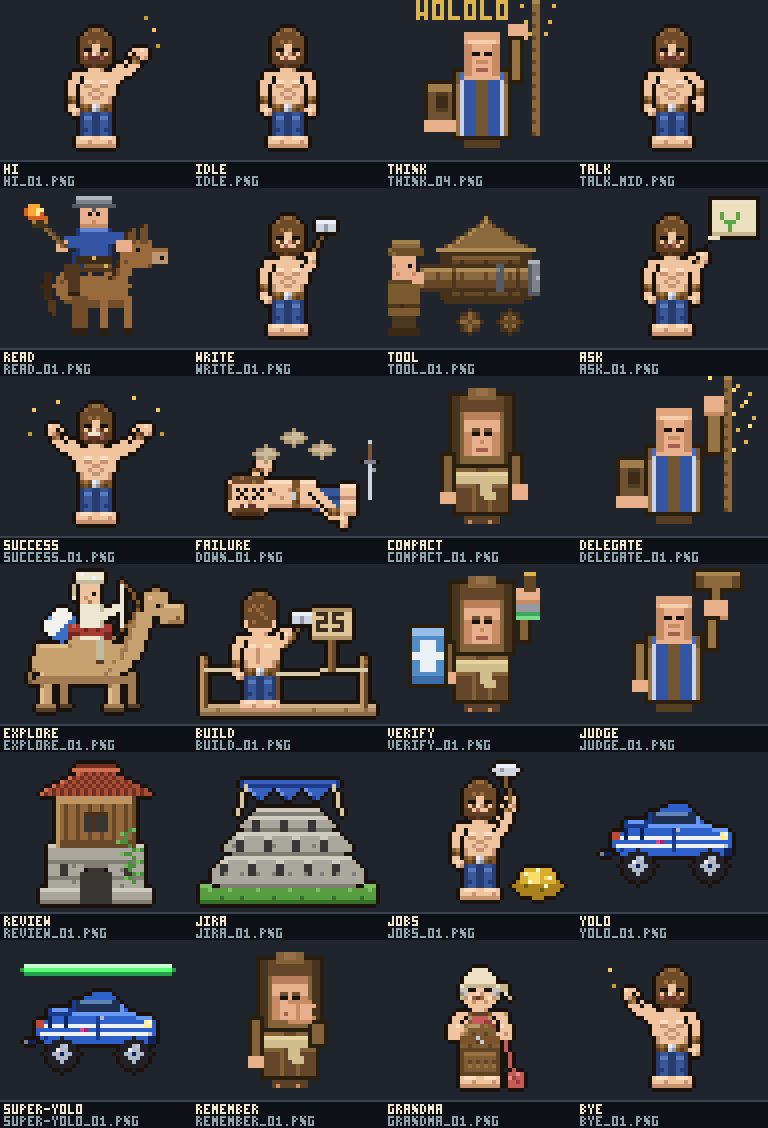
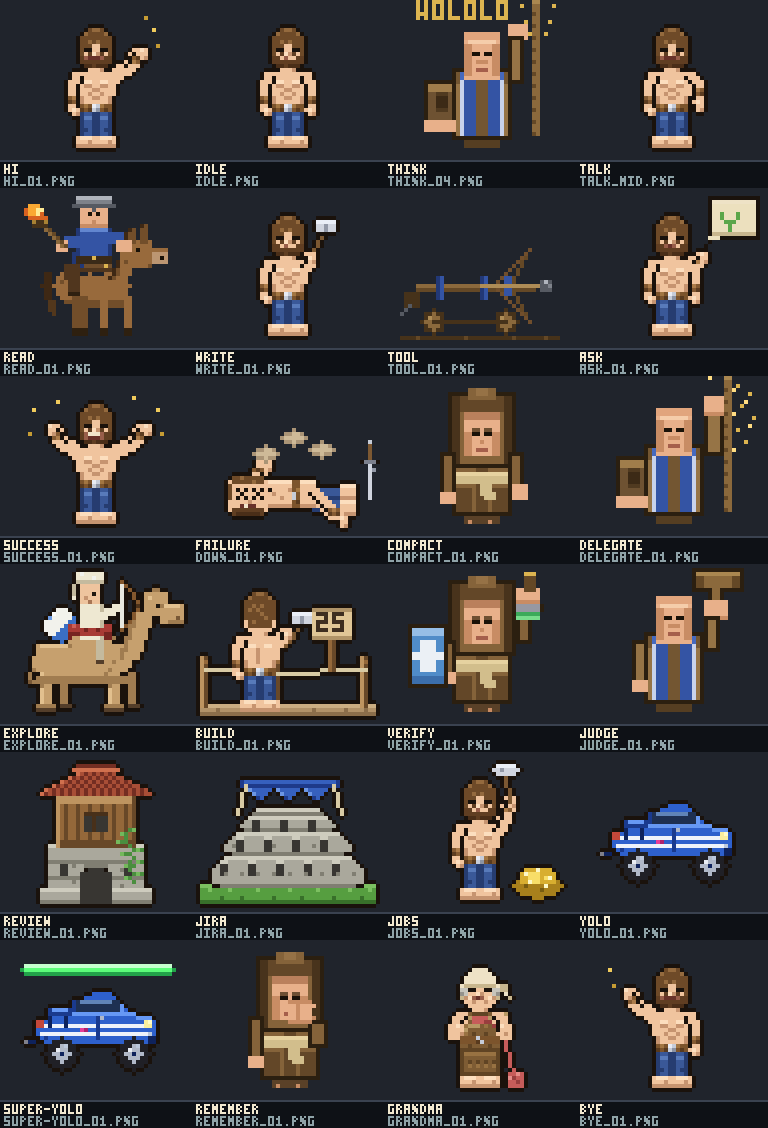
feat(emotes): tool ballesta+catapulta en loop tensar-disparar-cargar-soltar

Changed region(s): [[0.5, 0.1862, 0.7188, 0.3103]]

diff --git a/scripts/sprites/gen_unidades.py b/scripts/sprites/gen_unidades.py
@@ -6,7 +6,7 @@ Cinco estados, todos loop de poses chicas:
   read/     scout a caballo con antorcha ......... 2 poses (antorcha izq / der)
   explore/  caballeria con farol ................. 2 poses (paso 1 / paso 2)
   build/    herrero soldando el ariete ........... 2 poses (chispa / sin chispa)
-  tool/     ariete de asalto empujado ............ 3 poses (atras / medio / adelante)
+  tool/     bateria de asedio ................... 4 poses (tensa/dispara/carga/suelta)
   jira/     castillo con cohete de madera ....... 2 poses (despegando / en el aire)
 
 Solo stdlib: struct + zlib (PNG 48x40 RGBA escrito a mano, sin PIL, sin red).
@@ -455,115 +455,110 @@ def scene_build(pose):
 
 
 # ------------------------------------------------------------------ 4. tool
-def tool_wheel(buf, cx, cy, phase):
-    """Rueda de 7 px con cuatro rayos que giran con la fase."""
-    disc(buf, cx, cy, 3, woodDD)
-    disc(buf, cx, cy, 2, wood)
+def tool_wheel(buf, cx, cy, r=3):
+    """Rueda maciza de madera con buje de hierro."""
+    disc(buf, cx, cy, r, woodDD)
+    disc(buf, cx, cy, r - 1, wood)
     setpx(buf, cx, cy, ironD)
-    spokes = {
-        0: ((2, 1), (-2, -1), (1, -2), (-1, 2)),
-        1: ((2, 0), (-2, 0), (0, 2), (0, -2)),
-        2: ((1, 2), (-1, -2), (-2, 1), (2, -1)),
-    }[phase]
-    for (dx, dy) in spokes:
-        line(buf, cx, cy, cx + dx, cy + dy, woodD)
+    setpx(buf, cx - 1, cy - 1, woodL)
 
 
-def tool_villager(buf, phase):
-    """Aldeano empujando el tronco del ariete desde atras."""
-    step = 1 if phase % 2 else 0
-    # botas y piernas
-    rect(buf, 1, 35, 4, 36, (60, 40, 20))
-    rect(buf, 5, 35, 8, 36, (60, 40, 20))
-    rect(buf, 2 - step, 32, 4 - step, 34, (74, 56, 32))
-    rect(buf, 5 + step, 32, 7 + step, 34, (74, 56, 32))
-    # tunica
-    rect(buf, 1, 23, 8, 31, (122, 90, 46))
-    hline(buf, 1, 8, 23, (94, 68, 32))
-    hline(buf, 1, 8, 29, (80, 55, 25))
-    setpx(buf, 4, 29, (60, 40, 20))
-    # cabeza y sombrero de paja
-    rect(buf, 2, 17, 7, 22, skin)
-    setpx(buf, 2, 19, skinD)
-    setpx(buf, 6, 19, ink)
-    setpx(buf, 3, 21, skinD)
-    rect(buf, 2, 13, 8, 14, (138, 106, 59))     # copa del sombrero
-    hline(buf, 2, 8, 13, (162, 128, 74))
-    rect(buf, 1, 15, 9, 16, (107, 79, 38))      # ala
-    setpx(buf, 2, 16, (138, 106, 59))
-    setpx(buf, 1, 15, (138, 106, 59))
+def tool_ground(buf):
+    hline(buf, 4, 43, 37, woodDD)
+    for x in (8, 20, 32, 40):
+        setpx(buf, x, 37, woodD)
+
+
+def tool_ballista(buf, fired):
+    """Ballesta mirando a la derecha: tensada o disparada (retroceso)."""
+    dx = -1 if fired else 0
+    tool_wheel(buf, 12 + dx, 33)
+    tool_wheel(buf, 30 + dx, 33)
+    hline(buf, 12 + dx, 30 + dx, 33, woodDD)
+    # viga central
+    rect(buf, 8 + dx, 24, 37 + dx, 25, wood)
+    hline(buf, 8 + dx, 37 + dx, 25, woodD)
+    # arco frontal en V
+    line(buf, 36 + dx, 15, 31 + dx, 24, woodD)
+    line(buf, 36 + dx, 33, 31 + dx, 24, woodD)
+    # fajas azules de amarre
+    for bx in (13, 24):
+        rect(buf, bx + dx, 22, bx + 1 + dx, 27, blue)
+        vline(buf, bx + dx, 22, 27, blueD)
+    rect(buf, 30 + dx, 22, 31 + dx, 26, blue)
+    # torno trasero
+    rect(buf, 5 + dx, 26, 8 + dx, 29, woodDD)
+    line(buf, 6 + dx, 29, 4 + dx, 31, ironD)
+    if not fired:
+        # cuerda tensa en V y virote cargado
+        line(buf, 36 + dx, 15, 27 + dx, 24, leather)
+        line(buf, 27 + dx, 24, 36 + dx, 33, leather)
+        hline(buf, 24 + dx, 39 + dx, 24, woodL)
+        rect(buf, 39 + dx, 23, 41 + dx, 25, ironD)
+        setpx(buf, 41 + dx, 24, iron)
+        setpx(buf, 40 + dx, 23, ironL)
+        setpx(buf, 25 + dx, 23, blue)
+        setpx(buf, 25 + dx, 25, blue)
+    else:
+        # cuerda suelta + virote en vuelo
+        vline(buf, 31 + dx, 15, 33, leather)
+        hline(buf, 36, 45, 24, woodL)
+        rect(buf, 43, 23, 45, 25, ironD)
+        setpx(buf, 45, 24, iron)
+        setpx(buf, 44, 23, ironL)
+        for (x, y) in ((33, 22), (31, 24), (34, 26)):
+            setpx(buf, x, y, smokeL)
+
+
+def tool_catapult(buf, loaded):
+    """Catapulta: cargada (brazo atrás, piedra en cuchara) o suelta (piedra en el aire)."""
+    tool_wheel(buf, 10, 32, r=4)
+    tool_wheel(buf, 30, 32, r=4)
+    hline(buf, 10, 30, 32, woodDD)
+    # bastidor
+    rect(buf, 6, 29, 36, 31, woodD)
+    hline(buf, 6, 36, 29, woodL)
+    # paño azul al costado
+    rect(buf, 28, 23, 35, 28, blue)
+    vline(buf, 28, 23, 28, blueD)
+    vline(buf, 35, 23, 28, blueD)
+    hline(buf, 28, 35, 23, blueL)
+    setpx(buf, 31, 26, blueD)
+    # montaje del pivote
+    px, py = 20, 22
+    rect(buf, px - 2, py - 2, px + 2, py + 2, woodDD)
+    setpx(buf, px, py, ironD)
+    if loaded:
+        ex, ey = 9, 30
+        line(buf, px, py, ex, ey, wood)
+        line(buf, px, py + 1, ex, ey + 1, woodD)
+        line(buf, ex - 2, ey, ex + 2, ey, woodDD)
+        disc(buf, ex, ey - 2, 2, stone)
+        setpx(buf, ex - 1, ey - 3, stoneL)
+    else:
+        ex, ey = 31, 9
+        line(buf, px, py, ex, ey, wood)
+        line(buf, px + 1, py, ex + 1, ey, woodD)
+        line(buf, ex - 1, ey + 2, ex + 2, ey, woodDD)
+        disc(buf, 38, 5, 2, stone)
+        setpx(buf, 37, 4, stoneL)
+        for (x, y) in ((34, 8), (32, 10), (35, 11)):
+            setpx(buf, x, y, smokeL)
 
 
 def scene_tool(pose):
-    """Ariete de asalto empujado: pose 1 atras, 2 medio, 3 adelante."""
+    """Batería de asedio en loop: 1 ballesta tensa, 2 ballesta dispara,
+    3 catapulta cargada, 4 catapulta suelta."""
     buf = canvas()
-    push = (0, 2, 4)[pose - 1]
-
-    # ---- ruedas y eje ----
-    tool_wheel(buf, 21, 33, (0, 1, 2)[pose - 1])
-    tool_wheel(buf, 31, 33, (1, 2, 0)[pose - 1])
-    rect(buf, 15, 28, 34, 28, woodDD)
-
-    # ---- caja del ariete ----
-    rect(buf, 14, 16, 36, 27, woodDD)
-    rect(buf, 15, 17, 35, 26, woodD)
-    for x in (19, 25, 31):
-        vline(buf, x, 17, 26, woodDD)
-    hline(buf, 15, 35, 17, (124, 92, 52))
-    # techo a dos aguas
-    for i in range(8):
-        y = 8 + i
-        half = 1 + (i * 11) // 7
-        rect(buf, 25 - half, y, 25 + half, y, wood)
-        setpx(buf, 25 - half, y, woodD)
-        setpx(buf, 25 - half + 1, y, woodL)
-        setpx(buf, 25 + half, y, woodD)
-    hline(buf, 13, 37, 15, woodL)
-    rect(buf, 15, 16, 16, 27, woodDD)          # poste trasero
-    rect(buf, 34, 16, 35, 27, woodDD)          # poste delantero
-    setpx(buf, 25, 7, goldD)
-
-    # ---- tronco del ariete (lo mas claro del cuadro) ----
-    tip = 37 + push
-    rect(buf, 9, 19, tip, 25, woodDD)
-    rect(buf, 9, 20, tip, 24, wood)
-    hline(buf, 10, tip, 20, woodL)
-    hline(buf, 10, tip, 23, woodD)
-    hline(buf, 10, tip, 24, woodD)
-    for x in (13, 19, 25, 31):
-        if x < tip:
-            vline(buf, x, 21, 22, woodD)
-    # fleje de hierro en la mitad del tronco
-    rect(buf, 28, 19, 29, 25, ironD)
-    setpx(buf, 28, 20, iron)
-    # cuerdas que lo atan a la caja
-    for x in (17, 33):
-        vline(buf, x, 19, 25, leatherD)
-        setpx(buf, x, 20, leather)
-    setpx(buf, 9, 21, leatherD)
-    setpx(buf, 9, 23, leatherD)
-    # punta de hierro
-    rect(buf, tip - 1, 18, tip + 1, 26, ironD)
-    rect(buf, tip, 19, tip + 1, 25, iron)
-    hline(buf, tip - 1, tip + 1, 18, ironL)
-    setpx(buf, tip - 1, 19, ironD)
-    setpx(buf, tip - 1, 25, ironD)
-    setpx(buf, tip + 1, 22, ironL)
-
-    # ---- aldeano empujando ----
-    tool_villager(buf, pose - 1)
-    rect(buf, 7, 21, 9, 23, skin)              # manos contra el tronco
-    setpx(buf, 7, 21, skinD)
-
-    # ---- impacto ----
-    if push:
-        for (dx, dy) in ((2, -1), (3, 1), (3, 4), (4, 2), (1, 3)):
-            setpx(buf, tip + dx, 22 + dy, clothD)
-    if push >= 4:
-        for (dx, dy) in ((4, -2), (4, 0), (4, 5), (2, -2), (3, 6)):
-            setpx(buf, tip + dx, 22 + dy, smokeL)
-        for (dx, dy) in ((3, -3), (4, -3), (4, 3), (3, 4)):
-            setpx(buf, tip + dx, 22 + dy, flame)
+    tool_ground(buf)
+    if pose == 1:
+        tool_ballista(buf, fired=False)
+    elif pose == 2:
+        tool_ballista(buf, fired=True)
+    elif pose == 3:
+        tool_catapult(buf, loaded=True)
+    else:
+        tool_catapult(buf, loaded=False)
     return buf
 
 
@@ -667,13 +662,18 @@ JOBS = [
     ("tool", "tool_01.png", scene_tool, 1),
     ("tool", "tool_02.png", scene_tool, 2),
     ("tool", "tool_03.png", scene_tool, 3),
+    ("tool", "tool_04.png", scene_tool, 4),
     ("jira", "jira_01.png", scene_jira, 1),
     ("jira", "jira_02.png", scene_jira, 2),
 ]
 
 
 def main():
+    import sys
+    solo = sys.argv[sys.argv.index("--solo") + 1] if "--solo" in sys.argv else None
     for state, name, draw, pose in JOBS:
+        if solo and state != solo:
+            continue
         directory = os.path.join(BASE, state)
         os.makedirs(directory, exist_ok=True)
         path = os.path.join(directory, name)

diff --git a/docs/MAPA-ESCENAS-aoe.md b/docs/MAPA-ESCENAS-aoe.md
@@ -16,7 +16,7 @@ Una fila por estado del plugin. Tres columnas conceptuales:
 | 4 | `talk` | El modelo responde | `rogan` — el aldeano responde al clic | Aldeano respondiendo | Villager ack |
 | 5 | `read` | Lee código/memoria | — | Caballería exploradora con antorcha | Scout Cavalry |
 | 6 | `write` | Edita código | — | Aldeano construyendo con andamio | Villager build |
-| 7 | `tool` | Ejecuta otras herramientas | — | Ariete golpeando | Battering Ram |
+| 7 | `tool` | Ejecuta otras herramientas | — | Ballesta tensa/dispara + catapulta carga/suelta | Ballista/Catapult |
 | 8 | `ask` | Pregunta sí/no en pantalla | `interface-menu-select` — click neutro de UI | Aldeano con globo Y/N | Villager selected |
 | 9 | `success` | Terminó bien | `priestconverted` — la unidad ya cambió de bando | Sacerdote con unidad convertida de rodillas | Conversion success |
 | 10 | `failure` | Algo falló | `rogan` / `generic-male-death2` — no entendió / muerte larga = grave | Aldeano caído, polvo, espada clavada | Villager death |

diff --git a/docs/MAPA-ESCENAS.md b/docs/MAPA-ESCENAS.md
@@ -16,7 +16,7 @@ Una fila por estado del plugin. Tres columnas conceptuales:
 | 4 | `talk` | El modelo responde | `rogan` — el aldeano responde al clic | Aldeano respondiendo | Villager ack |
 | 5 | `read` | Lee código/memoria | — | Caballería exploradora con antorcha | Scout Cavalry |
 | 6 | `write` | Edita código | — | Aldeano construyendo con andamio | Villager build |
-| 7 | `tool` | Ejecuta otras herramientas | — | Ariete golpeando | Battering Ram |
+| 7 | `tool` | Ejecuta otras herramientas | — | Ballesta tensa/dispara + catapulta carga/suelta | Ballista/Catapult |
 | 8 | `ask` | Pregunta sí/no en pantalla | `interface-menu-select` — click neutro de UI | Aldeano con globo Y/N | Villager selected |
 | 9 | `success` | Terminó bien | `priestconverted` — la unidad ya cambió de bando | Sacerdote con unidad convertida de rodillas | Conversion success |
 | 10 | `failure` | Algo falló | `rogan` / `generic-male-death2` — no entendió / muerte larga = grave | Aldeano caído, polvo, espada clavada | Villager death |
